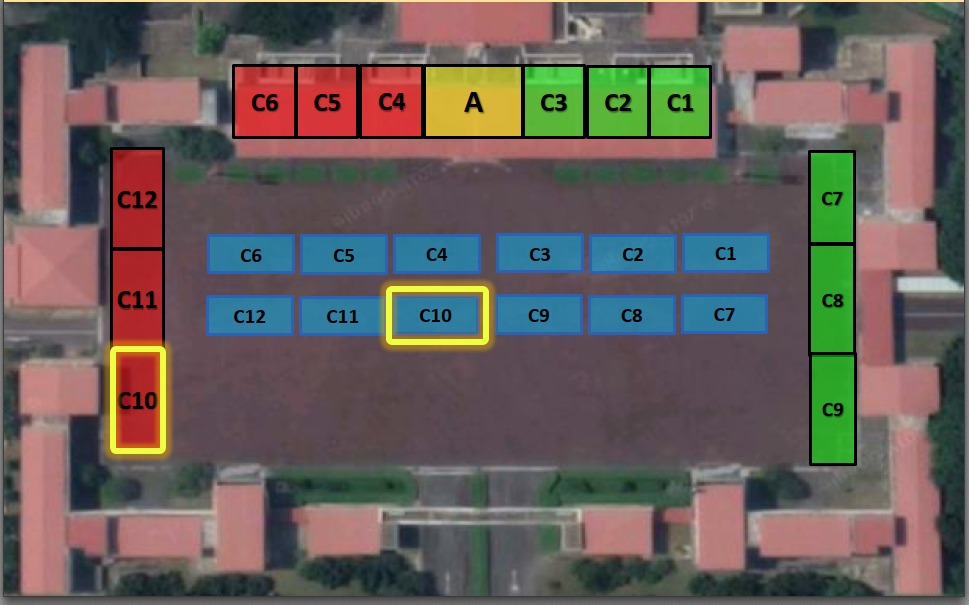
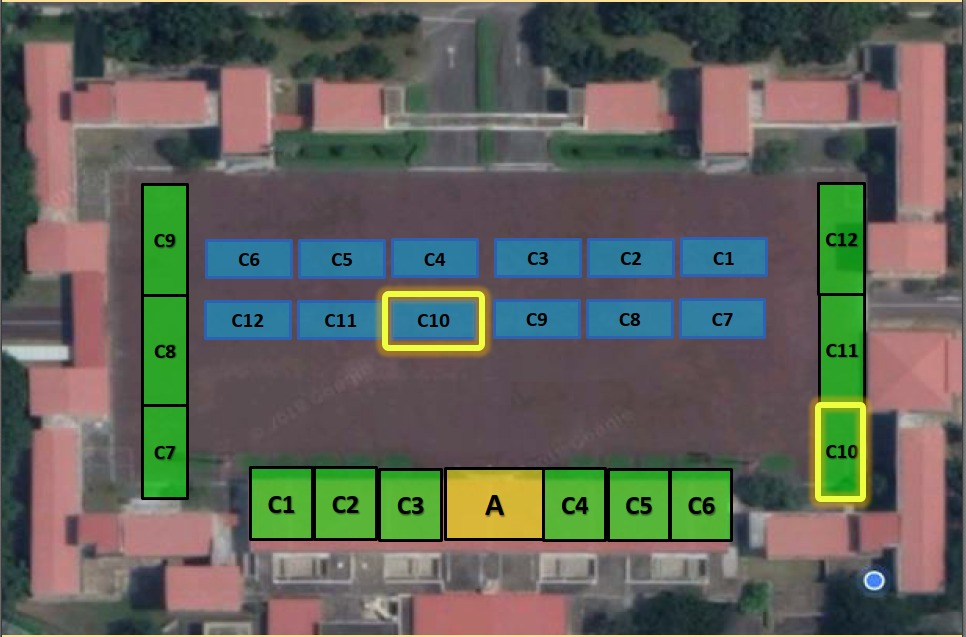
Add flipped dry plan images

diff --git a/contingent-plan.html b/contingent-plan.html
@@ -40,15 +40,15 @@
                 '1': '#90EE90', // Light green for C1
                 '2': '#90EE90', // Light green for C2
                 '3': '#90EE90', // Light green for C3
-                '4': '#FF9999', // Light red for C4
-                '5': '#FF9999', // Light red for C5
-                '6': '#FF9999', // Light red for C6
+                '4': '#90EE90', // Light green for C4
+                '5': '#90EE90', // Light green for C5
+                '6': '#90EE90', // Light green for C6
                 '7': '#90EE90', // Light green for C7
                 '8': '#90EE90', // Light green for C8
                 '9': '#90EE90', // Light green for C9
-                '10': '#FF9999', // Light red for C10
-                '11': '#FF9999', // Light red for C11
-                '12': '#FF9999', // Light red for C12
+                '10': '#90EE90', // Light green for C10
+                '11': '#90EE90', // Light green for C11
+                '12': '#90EE90', // Light green for C12
             };
 
             if (contingentNumber && contingentNumber >= 1 && contingentNumber <= 12) {
